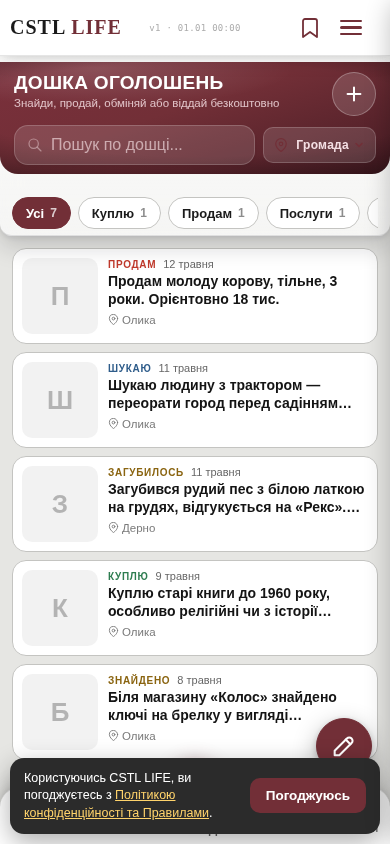
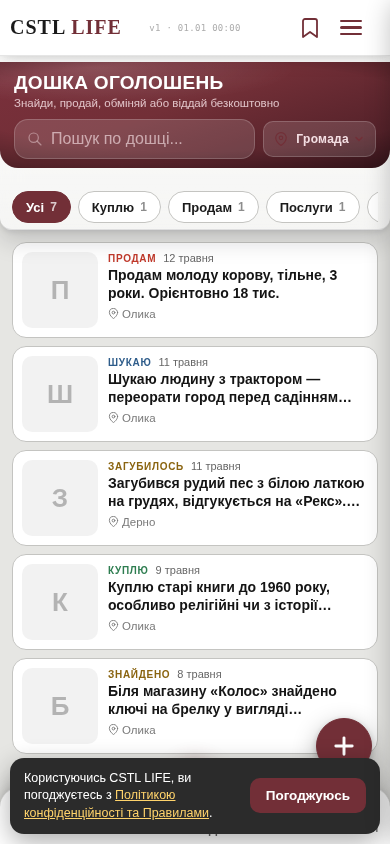
docs(START_HERE): прод #737 — дії вниз, листування вгору

diff --git a/CSTL NEWS VOVA/START_HERE.md b/CSTL NEWS VOVA/START_HERE.md
@@ -74,14 +74,14 @@
 
 ---
 
-## 🚀 Поточний стан проекту (на 2026-08-01, сесія U)
+## 🚀 Поточний стан проекту (на 2026-08-02, сесія U-4)
 
 > 🔴 **НОВИЙ ЧАТ ПОЧИНАЙ ЗВІДСИ:** повний стан — верхні блоки
 > `_ai-tools/SESSION_STATE_VOVA.md` (сесії **U** і **T**, обидві за 01.08).
 > Журнали — `_session-log/vova-2026-08-01.md` і `vova-2026-07-29b.md`.
 
-**Прод:** PR **#736** → `main`, деплой **#3636**, `CACHE_NAME = cstl-20260801-2259`.
-Стенди — **31 / 462 перевірки**. Відкритих 🔴 багів нема. Додаток досі закритий
+**Прод:** PR **#737** → `main`, `CACHE_NAME = cstl-20260802-0017`.
+Стенди — **31 / 466 перевірок**. Відкритих 🔴 багів нема. Додаток досі закритий
 заслінкою розробки (`src/core/dev-lock.js`, `DEV_LOCK = true`).
 
 **Зроблено 01.08 (три потоки):**
@@ -90,6 +90,10 @@
    переїхали в закритий бакет `chat-photos`.
 2. **Табло новин** (#735): прилад **знято вранці й повернуто ввечері** — рішення
    Вови по знімках; картка дістала обідок сторінки новин.
+4. **🔴 ДОШКА — ДІЇ ВНИЗУ, ЛИСТУВАННЯ ВГОРІ** (#737): подати оголошення — найчастіша
+   дія, тож вона в НИЖНЬОМУ FAB (зона великого пальця), а конверт із бейджем — у шапці
+   (постійне місце). Показ конверта: `canSeeMessages()` = **є оголошення АБО є розмова**
+   — правило «лише автори» відрізало б 7 із 8 людей від їхнього ж листування.
 3. **🔴 ДОШКА — ПРОЩАННЯ З КОРКОМ** (#736): дві колонки «стікерів» зі шпильками →
    **один стовпчик** карток-рядків (фото 76px зліва, тип, час, заголовок, локація,
    ціна). Повернулись назва «ДОШКА ОГОЛОШЕНЬ» і слоган-дієслова, зʼявились кнопка
@@ -100,6 +104,9 @@
 🔑 **Правила, які треба знати перед дотиком до новин:**
 - Форма картки живе ТІЛЬКИ в `style/news-card.css`; екран задає лише токени
   `--nc-*`. Сторож — `tests/news-widget.mjs`.
+- **Дошка: розкладку дій за добу перевертали двічі** — не міняй її «бо так логічніше»
+  без нового слова Вови. Чинне: дії внизу, конверт у шапці; причина — зона досяжності
+  великого пальця (верхній правий кут найважчий). Сторож — `tests/board-fab-icon.mjs`.
 - **Дошка: клас `cm-board-note` на картці ЛИШИВСЯ** попри новий вигляд — за ним
   чіпляється розгортання в зум-модалку. Приберете «щоб було чисто» — тап по
   оголошенню перестане відкривати картку. Увесь новий вигляд scoped під
